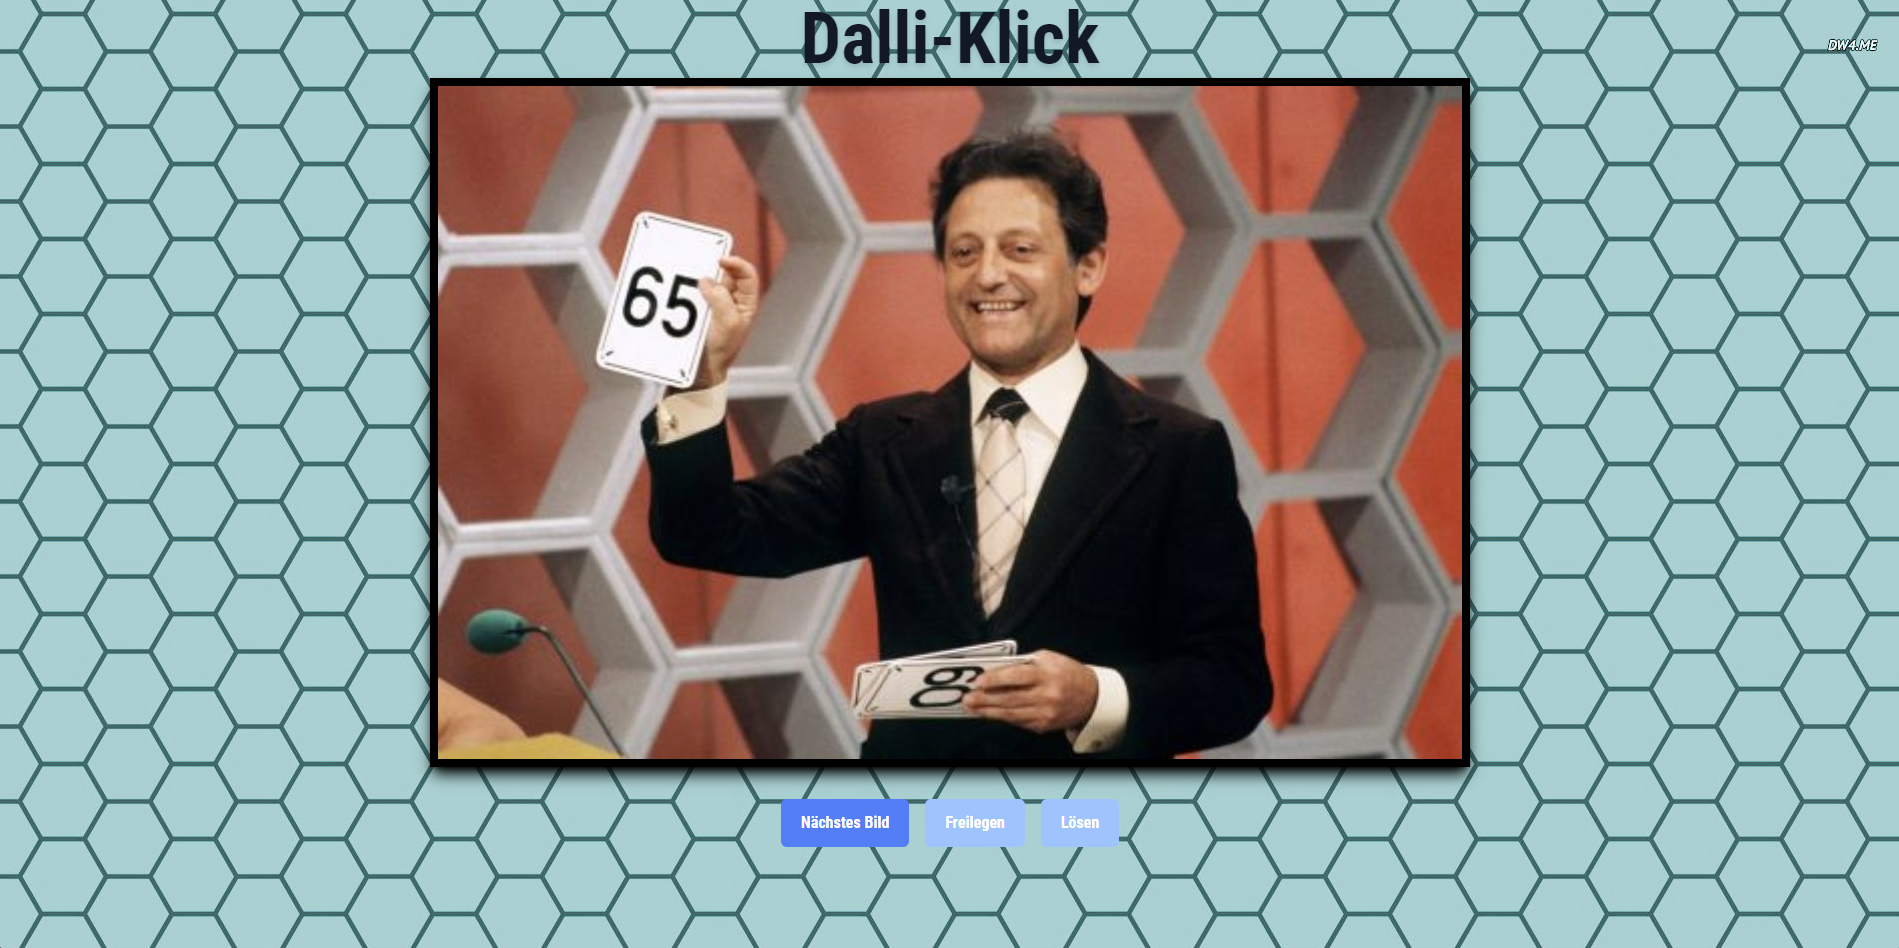
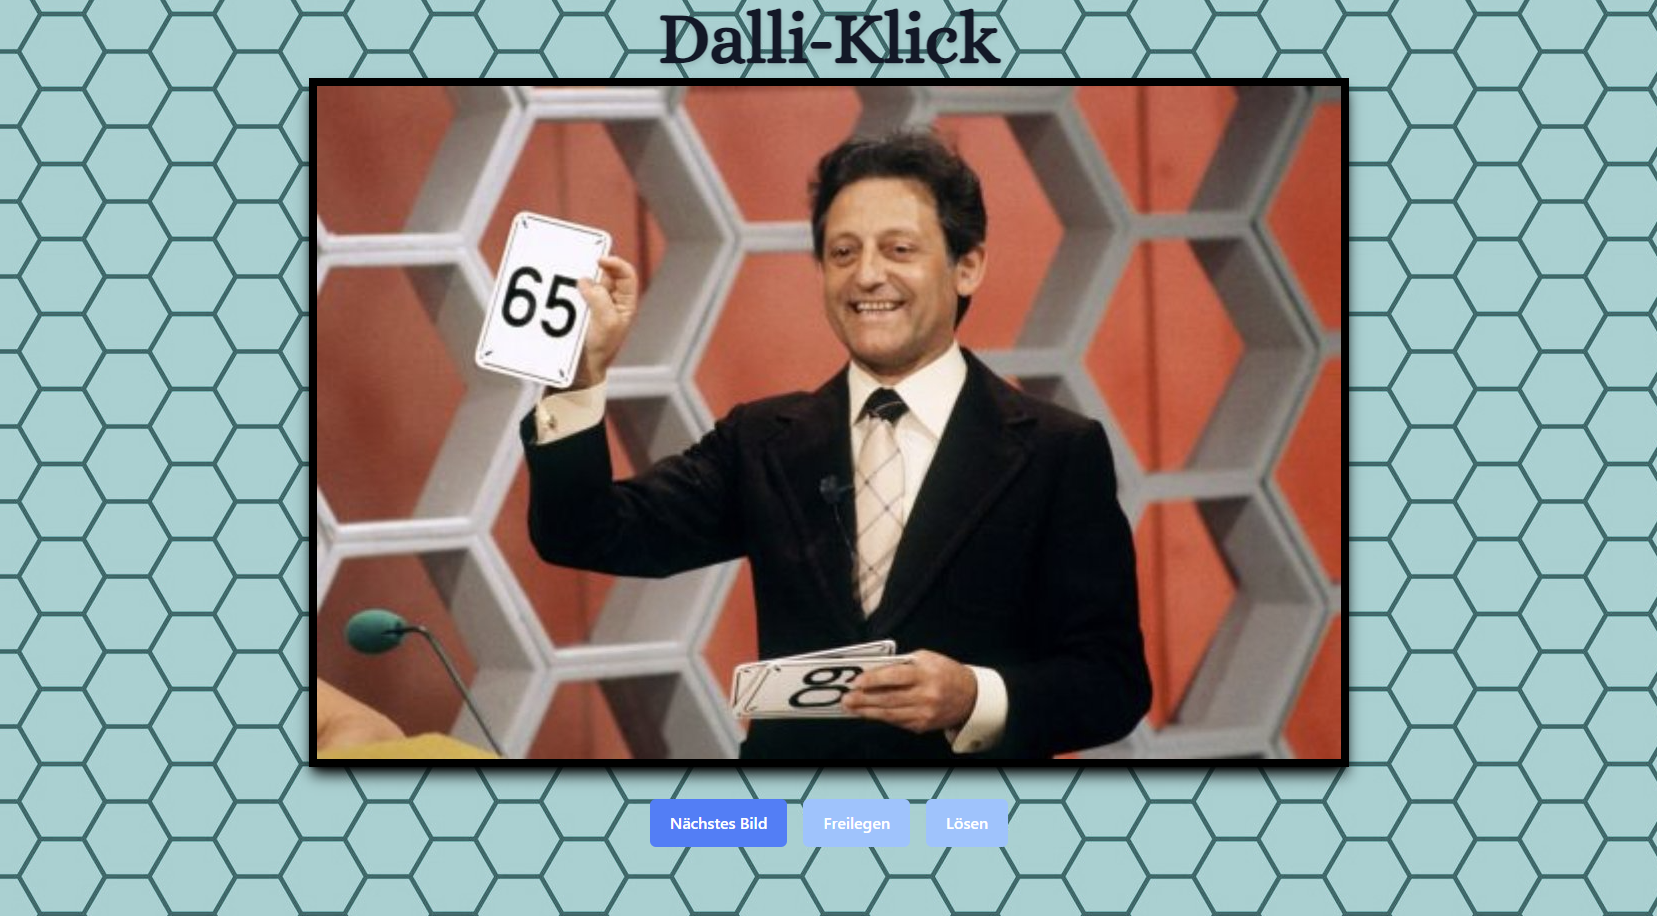
Added Custom Google Font

diff --git a/static/css/style.css b/static/css/style.css
@@ -44,7 +44,7 @@ html {
   -o-tab-size: 4;
      tab-size: 4;
   /* 3 */
-  font-family: Roboto, ui-sans-serif, system-ui;
+  font-family: ui-sans-serif, system-ui, -apple-system, BlinkMacSystemFont, "Segoe UI", Roboto, "Helvetica Neue", Arial, "Noto Sans", sans-serif, "Apple Color Emoji", "Segoe UI Emoji", "Segoe UI Symbol", "Noto Color Emoji";
   /* 4 */
   font-feature-settings: normal;
   /* 5 */
@@ -649,20 +649,16 @@ video {
   display: none;
 }
 
+.h-12 {
+  height: 3rem;
+}
+
 .h-full {
   height: 100%;
 }
 
 .h-screen {
   height: 100vh;
-}
-
-.h-16 {
-  height: 4rem;
-}
-
-.h-12 {
-  height: 3rem;
 }
 
 .max-h-\[100\%\] {
@@ -673,20 +669,8 @@ video {
   max-width: 100%;
 }
 
-.flex-wrap {
-  flex-wrap: wrap;
-}
-
 .place-items-center {
   place-items: center;
-}
-
-.items-center {
-  align-items: center;
-}
-
-.justify-center {
-  justify-content: center;
 }
 
 .gap-4 {
@@ -702,17 +686,8 @@ video {
   border-color: rgb(0 0 0 / var(--tw-border-opacity));
 }
 
-.bg-repeat {
-  background-repeat: repeat;
-}
-
 .p-4 {
   padding: 1rem;
-}
-
-.py-8 {
-  padding-top: 2rem;
-  padding-bottom: 2rem;
 }
 
 .py-4 {
@@ -720,12 +695,12 @@ video {
   padding-bottom: 1rem;
 }
 
-.text-center {
-  text-align: center;
+.font-alice {
+  font-family: "Alice", sans-serif;
 }
 
 .font-sans {
-  font-family: Roboto, ui-sans-serif, system-ui;
+  font-family: ui-sans-serif, system-ui, -apple-system, BlinkMacSystemFont, "Segoe UI", Roboto, "Helvetica Neue", Arial, "Noto Sans", sans-serif, "Apple Color Emoji", "Segoe UI Emoji", "Segoe UI Symbol", "Noto Color Emoji";
 }
 
 .font-bold {

diff --git a/templates/index.html b/templates/index.html
@@ -4,6 +4,9 @@
 <head>
     <meta charset="UTF-8">
     <meta name="viewport" content="width=device-width, initial-scale=1.0">
+    <link rel="preconnect" href="https://fonts.googleapis.com">
+    <link rel="preconnect" href="https://fonts.gstatic.com" crossorigin>
+    <link href="https://fonts.googleapis.com/css2?family=Alice&display=swap" rel="stylesheet">
     <link href="{{url_for('static',filename='css/style.css')}}" rel="stylesheet">
     <title>Dalli-Klick-TW</title>
     <script src="/static/js/oCanvas.js"></script>
@@ -15,12 +18,12 @@
     </script>
 </head>
 
-<body class="font-sans" style="background-image: url(/static/img/bg.jpg)">
+<body class="font-alice" style="background-image: url(/static/img/bg.jpg)">
     <div id="container" class="grid place-items-center">
         <h1 class="font-bold font-9xl text-gray-900 drop-shadow-md">Dalli-Klick</h1>
         <canvas id="canvas" class="max-w-[100%] max-h-[100%] border-8 border-black shadow-lg shadow-black"></canvas>
         <div class="py-4">
-            <div class="flex gap-4 p-4">
+            <div class="flex gap-4 p-4 font-sans">
                 <form method="get" action="/">
                     <input type="hidden" name="image" value="{{pageno}}" />
                     <button type="submit" id="btn-next" class="primary-btn h-12">N&auml;chstes Bild</button>

diff --git a/templates/ende.html b/templates/ende.html
@@ -3,10 +3,13 @@
     <head>
         <meta charset="UTF-8">
         <meta name="viewport" content="width=device-width, initial-scale=1.0">
+        <link rel="preconnect" href="https://fonts.googleapis.com">
+        <link rel="preconnect" href="https://fonts.gstatic.com" crossorigin>
+        <link href="https://fonts.googleapis.com/css2?family=Alice&display=swap" rel="stylesheet">
         <link href="{{url_for('static',filename='css/style.css')}}" rel="stylesheet">
         <title>Dalli-Klick-TW</title>
     </head>
-    <body class="font-sans grid h-screen place-items-center" style="background-image: url(/static/img/bg.jpg)">
+    <body class="font-alice grid h-screen place-items-center" style="background-image: url(/static/img/bg.jpg)">
         <div id="container" class="flex h-full place-items-center ">
             <h1 class="font-bold font-9xl text-gray-900 drop-shadow-md">Ende</h1>
         </div>

diff --git a/tailwind.config.js b/tailwind.config.js
@@ -36,8 +36,9 @@ module.exports = {
     },
     extend: {
       fontFamily: {
-        'sans': ['Roboto', 'ui-sans-serif', 'system-ui']
+        'alice': ['"Alice"', "sans-serif"]
       }
-    }
+    },
+    plugins: [],
   }
 }

diff --git a/static/css/global.css b/static/css/global.css
@@ -5,12 +5,15 @@
 h1 {
   @apply text-7xl;
 }
+
 h2 {
   @apply text-6xl;
 }
+
 h3 {
   @apply text-5xl;
 }
+
 a {
   @apply text-blue-600 underline;
 }
